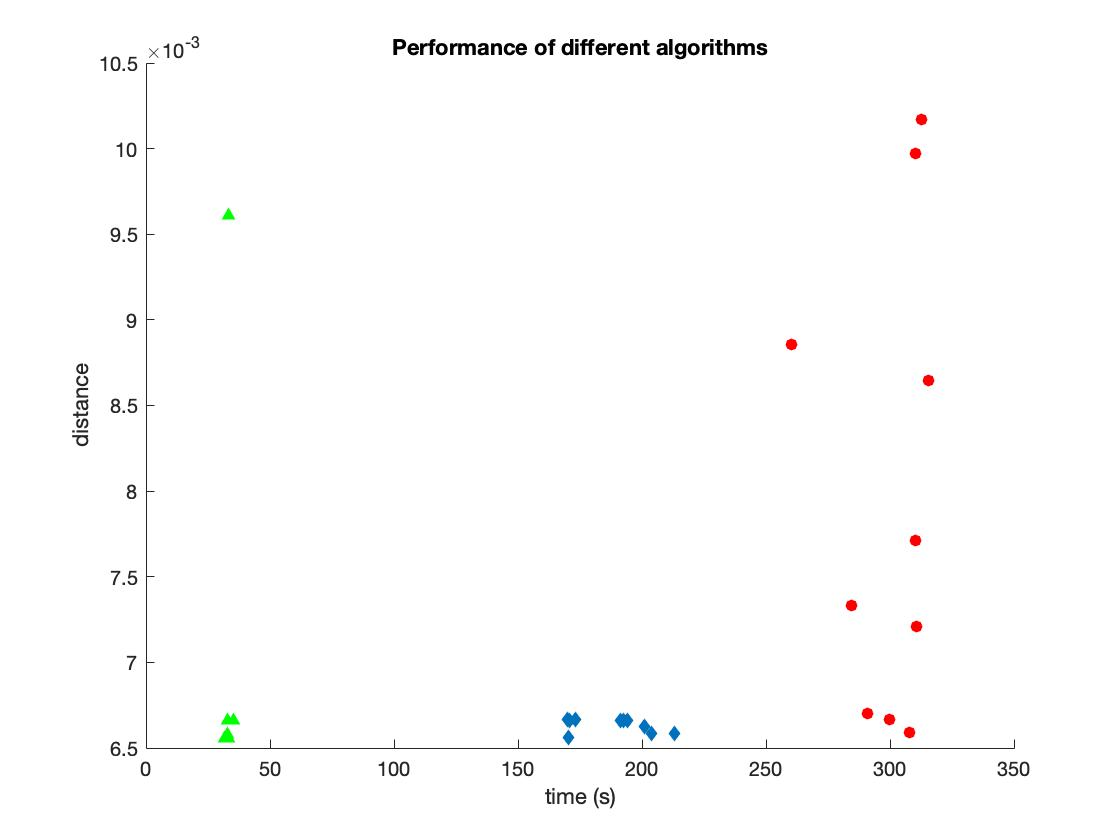
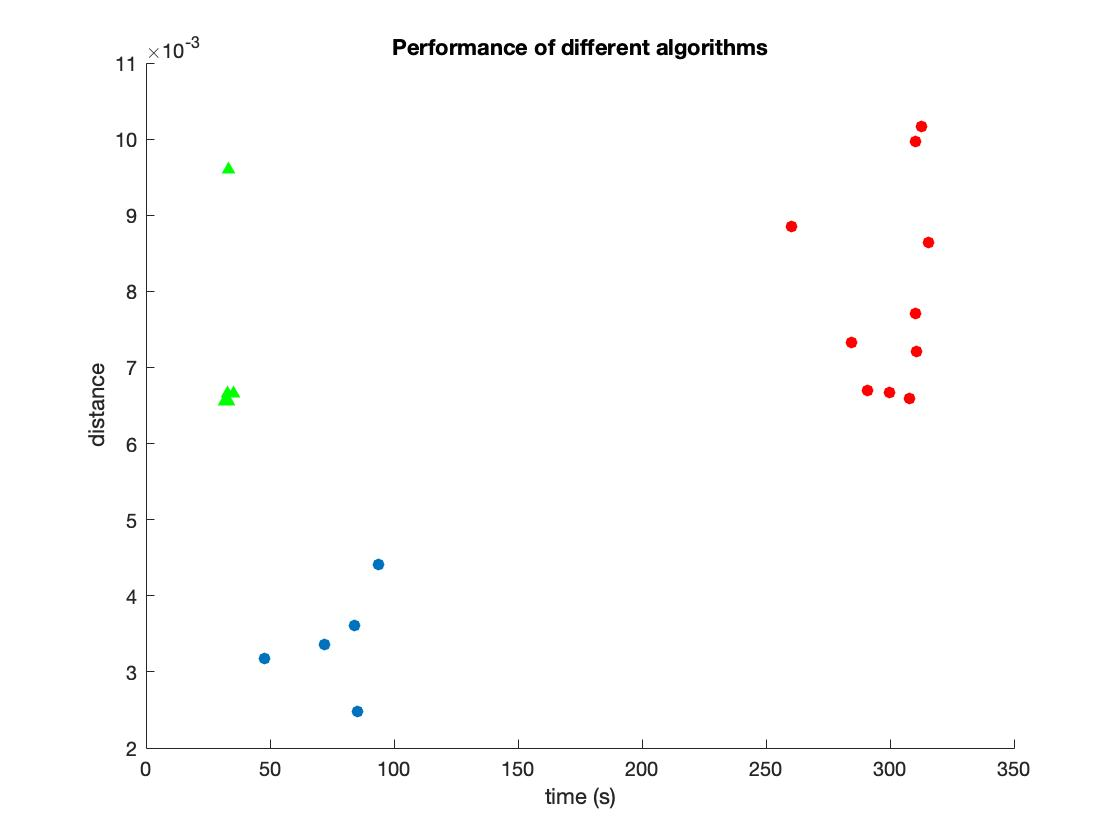
16th revise: correct some mistakes

diff --git a/index.html b/index.html
@@ -61,7 +61,7 @@
 	<img src="test_set.jpg" alt="test_set" height="450">
 <p>
 	<b>1. SQP:</b>
-<p>	The performance of SQP is shown as green triangle in above plot. We can see that the sqp have best performance with least time and shortest distance.
+<p>	The performance of SQP is shown as green triangle in above plot. We can see that the sqp have best performance with least time and medium distance.
 <p>
 	<b>2. Interior Point:</b>
 <p>	The performance of interior-point is shown as red circle in above plot. It has worst performance at this situation. The variance of its distance is large.
@@ -70,7 +70,7 @@
 <p>	(I cannot get the result from active-set. The algorithm could induce "NAN" when optimizating. But I find active-set run very fast. I hope I can tune my program to be suitable to this algorithm.)
 <p>
 	<b>4. Trust-Region-Reflective:</b>
-<p>	The performance of trust-region-reflective is shown as blue diamond is above plot. It has medium performance with similar distance as "sqp", but it needs more time. (I think it could relate to my differential method, because I use the gradient mentioned in second part with difference. If I use more sophisticated differential method, the performance may be much better.)
+<p>	The performance of trust-region-reflective is shown as blue circle is above plot. It has better performance with shorter distance than "sqp", but it needs more time. (I think it could relate to my differential method, because I use the gradient mentioned in second part with difference. If I use more sophisticated differential method, the performance may be much better.)
 <p>
 	<b>5. CMA-ES:</b>
 <p>	<img src="cma_sqp.jpg" alt="CMA-ES" height="450">
